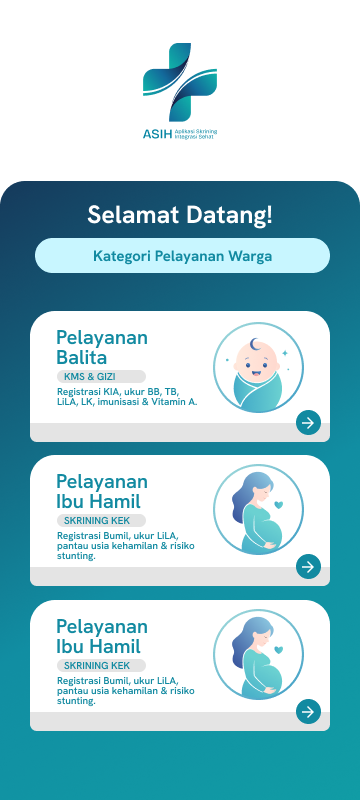
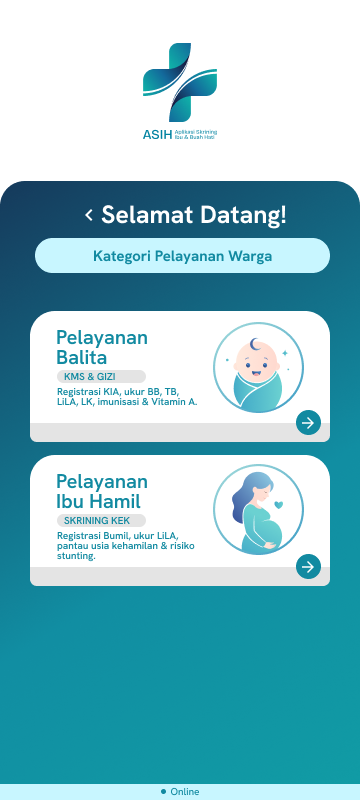
Update project

diff --git a/index.html b/index.html
@@ -15,7 +15,7 @@
     <!-- =================================================== -->
     <div id="splash-screen">
         <div class="splash-content">
-            <img src="assets/logo-asihome.svg" alt="Logo ASIH" class="splash-logo">
+            <img src="assets/logo-asihome2.svg" alt="Logo ASIH" class="splash-logo">
             <!-- Bar Loading Bergerak -->
             <div class="loading-bar" style="margin-top: 24px;">
                 <div class="loading-progress"></div>
@@ -31,78 +31,81 @@
         <!-- =================================================== -->
         <div class="figma-top-header">
             <div class="figma-logo-container">
-                <img src="assets/logo-asihome.svg" alt="Logo ASIH" class="figma-main-logo">
+                <img src="assets/logo-asihome2.svg" alt="Logo ASIH" class="figma-main-logo">
             </div>
         </div>
 
         <!-- =================================================== -->
         <!-- 1. HOME SCREEN: KONTAINER GRADASI & KARTU FIGMA -->
         <!-- =================================================== -->
-        <section id="page-home" class="page active">
-            <!-- WADAH GRADASI TEAL TO NAVY (PROPORSI FIGMA 360x621) -->
-            <div class="home-figma-container">
-                <h2 class="welcome-title">Selamat Datang!</h2>
-                <div class="welcome-pill">Kategori Pelayanan Warga</div>
+        <!-- =================================================== -->
+<!-- 1. HOME SCREEN: KONTAINER GRADASI & KARTU FIGMA -->
+<!-- =================================================== -->
+<section id="page-home" class="page active">
+    <!-- WADAH GRADASI TEAL TO NAVY (PROPORSI FIGMA) -->
+    <div class="home-figma-container">
+        <h2 class="welcome-title">Selamat Datang!</h2>
+        <div class="welcome-pill">Kategori Pelayanan Warga</div>
 
-                <div class="figma-cards-grid">
-                    <!-- KARTU 1: BALITA (300x131 | Gambar 91x91) -->
-                    <div class="figma-card" onclick="bukaHalaman('page-reg-balita')">
-                        <div class="figma-card-body">
-                            <div class="figma-card-text">
-                                <h3>Pelayanan<br>Balita</h3>
-                                <span class="figma-badge">KMS & GIZI</span>
-                                <p>Registrasi KIA, ukur BB, TB, LiLA, LK, imunisasi & Vitamin A.</p>
-                            </div>
-                            <div class="figma-card-img">
-                                <img src="assets/ill-balita.svg" alt="Balita">
-                            </div>
-                        </div>
-                        <div class="figma-card-footer">
-                            <div class="figma-arrow-btn">➔</div>
-                        </div>
+        <div class="figma-cards-grid">
+            <!-- KARTU 1: BALITA -->
+            <div class="figma-card" onclick="bukaHalaman('page-reg-balita')">
+                <div class="figma-card-body">
+                    <div class="figma-card-text">
+                        <h3>Pelayanan<br>Balita</h3>
+                        <span class="figma-badge">KMS & GIZI</span>
+                        <p>Registrasi KIA, ukur BB, TB, LiLA, LK, imunisasi & Vitamin A.</p>
                     </div>
-
-                    <!-- KARTU 2: IBU HAMIL (300x131 | Gambar 91x91) -->
-                    <div class="figma-card" onclick="bukaHalaman('page-reg-bumil')">
-                        <div class="figma-card-body">
-                            <div class="figma-card-text">
-                                <h3>Pelayanan<br>Ibu Hamil</h3>
-                                <span class="figma-badge">SKRINING KEK</span>
-                                <p>Registrasi Bumil, ukur LiLA, pantau usia kehamilan & risiko stunting.</p>
-                            </div>
-                            <div class="figma-card-img">
-                                <img src="assets/ill-bumil.svg" alt="Bumil">
-                            </div>
-                        </div>
-                        <div class="figma-card-footer">
-                            <div class="figma-arrow-btn">➔</div>
-                        </div>
-                    </div>
-
-                    <!-- KARTU 3: ADMIN BIDAN (300x131 | Gambar Khusus 91x109) -->
-                    <div class="figma-card" onclick="bukaHalaman('page-admin')">
-                        <div class="figma-card-body">
-                            <div class="figma-card-text">
-                                <h3>Dashboard<br>Admin Bidan</h3>
-                                <span class="figma-badge">REKAP & EXCEL</span>
-                                <p>Lihat tabel rekap medis, sync Google Sheets & unduh Laporan CSV.</p>
-                            </div>
-                            <!-- Tambahan kelas 'img-admin' khusus untuk ukuran 91x109 -->
-                            <div class="figma-card-img img-admin">
-                                <img src="assets/ill-admin.svg" alt="Admin">
-                            </div>
-                        </div>
-                        <div class="figma-card-footer">
-                            <div class="figma-arrow-btn">➔</div>
-                        </div>
+                    <div class="figma-card-img">
+                        <img src="assets/ill-balita.svg" alt="Balita">
                     </div>
                 </div>
-
-                <!-- STATUS ONLINE: SELISIH 15PX DARI KARTU & 15PX DARI BAWAH LAYAR (TOTAL 30PX) -->
-                <div class="status-footer-container">
-                    <div id="statusSinyal" class="status-badge online badge-in-gradient">🟢 Online</div>
+                <div class="figma-card-footer">
+                    <div class="figma-arrow-btn">➔</div>
                 </div>
-        </section>  
+            </div>
+
+            <!-- KARTU 2: IBU HAMIL -->
+            <div class="figma-card" onclick="bukaHalaman('page-reg-bumil')">
+                <div class="figma-card-body">
+                    <div class="figma-card-text">
+                        <h3>Pelayanan<br>Ibu Hamil</h3>
+                        <span class="figma-badge">SKRINING KEK</span>
+                        <p>Registrasi Bumil, ukur LiLA, pantau usia kehamilan & risiko stunting.</p>
+                    </div>
+                    <div class="figma-card-img">
+                        <img src="assets/ill-bumil.svg" alt="Bumil">
+                    </div>
+                </div>
+                <div class="figma-card-footer">
+                    <div class="figma-arrow-btn">➔</div>
+                </div>
+            </div>
+
+            <!-- KARTU 3: ADMIN BIDAN -->
+            <div class="figma-card" onclick="bukaHalaman('page-admin')">
+                <div class="figma-card-body">
+                    <div class="figma-card-text">
+                        <h3>Dashboard<br>Admin Bidan</h3>
+                        <span class="figma-badge">REKAP & EXCEL</span>
+                        <p>Lihat tabel rekap medis, sync Google Sheets & unduh Laporan CSV.</p>
+                    </div>
+                    <div class="figma-card-img img-admin">
+                        <img src="assets/ill-admin.svg" alt="Admin">
+                    </div>
+                </div>
+                <div class="figma-card-footer">
+                    <div class="figma-arrow-btn">➔</div>
+                </div>
+            </div>
+        </div>
+
+        <!-- STATUS ONLINE: DI BAWAH KARTU -->
+        <div class="status-footer-container">
+            <div id="statusSinyal" class="status-badge online badge-in-gradient">🟢 Online</div>
+        </div>
+    </div> <!-- 👈 INI KUNCI PERBAIKAN: Tag penutup wadah gradasi yang tadinya hilang -->
+</section>  
 
         <!-- =================================================== -->
         <!-- 2A. LANGKAH 1 BALITA: REGISTRASI (100% MIRIP FIGMA) -->

diff --git a/app.js b/app.js
@@ -116,17 +116,22 @@ function lanjutKeUkurBumil() {
 // 2. ALGORITMA MEDIS & DIAGNOSIS
 // ==================================================================
 function tampilkanModal(status, ikonPath, judul, kategori, detail, saran, dataObj) {
-    const modalCard = document.querySelector('.modal-card');
-    modalCard.className = "modal-card " + status;
+    // 1. Menyesuaikan dengan class modal versi Figma yang baru
+    const modalCard = document.querySelector('.modal-card-figma') || document.querySelector('.modal-card');
+    if (modalCard) {
+        modalCard.className = "modal-card-figma " + status;
+    }
     
-    // MENGGANTI TEKS EMOJI MENJADI TAG GAMBAR
+    // 2. Mencegah error jika elemen id="modal-icon" terlewat di HTML
     const iconWrapper = document.getElementById('modal-icon');
-    if (ikonPath.includes('.')) {
-        // Jika yang dikirim berupa nama file gambar (.svg/.png)
-        iconWrapper.innerHTML = `<img src="${ikonPath}" alt="Status" style="width: 70px; height: 70px; object-fit: contain;">`;
-    } else {
-        // Cadangan jika masih berupa emoji biasa
-        iconWrapper.textContent = ikonPath;
+    if (iconWrapper) {
+        if (ikonPath.includes('.')) {
+            // Jika yang dikirim berupa nama file gambar (.svg/.png)
+            iconWrapper.innerHTML = `<img src="${ikonPath}" alt="Status" style="width: 70px; height: 70px; object-fit: contain;">`;
+        } else {
+            // Cadangan jika masih berupa emoji biasa
+            iconWrapper.textContent = ikonPath;
+        }
     }
     
     document.getElementById('modal-title').textContent = judul;
@@ -136,6 +141,8 @@ function tampilkanModal(status, ikonPath, judul, kategori, detail, saran, dataOb
     document.getElementById('modal-saran').textContent = saran;
     
     window.dataSiapSimpan = dataObj;
+    
+    // Memunculkan pop-up modal ke layar
     document.getElementById('modal-diagnosis').style.display = "flex";
 }
 function tutupModal() { document.getElementById('modal-diagnosis').style.display = "none"; }

diff --git a/style.css b/style.css
@@ -482,12 +482,12 @@ body, .app-container, .page {
     color: #128AA1 !important;
     font-size: 15px !important;
     font-weight: 700 !important;
-    padding: 10px 0 !important;      /* Padding kiri-kanan dinonaktifkan karena sudah dipaksa width 300px */
+    padding: 10px 0 !important;
     border-radius: 50px !important;
     display: block !important;
-    width: 360px !important;         /* 👈 KUNCI LEBAR SAMA KAYAK INPUT JAWABAN & KARTU HOMESCREEN */
-    max-width: 100% !important;
-    margin: 0 auto 20px auto !important;
+    width: 100% !important;
+    max-width: 335px !important;      /* 👈 Disamakan lebar maksimalnya agar sejajar lurus */
+    margin: 0 auto 20px auto !important; /* Memaksa posisi tepat di tengah */
     box-shadow: 0 4px 10px rgba(0, 0, 0, 0.1);
     text-align: center !important;
     box-sizing: border-box !important;
@@ -499,10 +499,10 @@ body, .app-container, .page {
     flex-direction: column;
     gap: 14px !important;
     width: 100%;
-    max-width: 300px !important;
-    margin: 0 auto !important; /* 👈 INI YANG MEMPERBAIKI SEGALA KELONGGARAN */
+    max-width: 335px !important;      /* 👈 Kunci lebar dudukan kartu */
+    margin: 0 auto !important;        /* 👈 MEMBUAT KARTU OTOMATIS RATA TENGAH SEMPURNA */
     position: relative !important;
-    left: -20px !important;
+    left: 0 !important;               /* 👈 PERBAIKAN: Menghapus nilai minus (-20px) yang bikin miring */
 }
 
 /* 5. Desain Kartu Utama (Putih Melengkung) */
@@ -511,8 +511,9 @@ body, .app-container, .page {
     border-radius: 20px;
     overflow: hidden;
     cursor: pointer;
-    width: 300px !important;
-    height: 131px !important;    /* Kunci tinggi pas 131 piksel */
+    width: 100% !important;
+    max-width: 335px !important;      /* 👈 Ukuran lebar kartu mengikuti grid standar Figma */
+    height: 131px !important;         /* Dikunci pas sesuai tinggi di Figma */
     margin: 0 auto;
     box-shadow: 0 6px 16px rgba(0, 0, 0, 0.15);
     transition: transform 0.25s ease, box-shadow 0.25s ease;
@@ -521,7 +522,7 @@ body, .app-container, .page {
     display: flex;
     flex-direction: column;
     justify-content: space-between;
-    zoom: 1.15 !important; 
+    zoom: 1 !important;               /* 👈 PERBAIKAN: Diubah ke 1 agar teks tidak blur/pecah akibat scaling paksa */
 }
 
 .figma-card:hover, .figma-card:active {
@@ -2320,3 +2321,4 @@ body:has(#page-ukur-balita.active) .figma-top-header {
     margin-left: -20px;
     margin-top: 10px;
 }
+